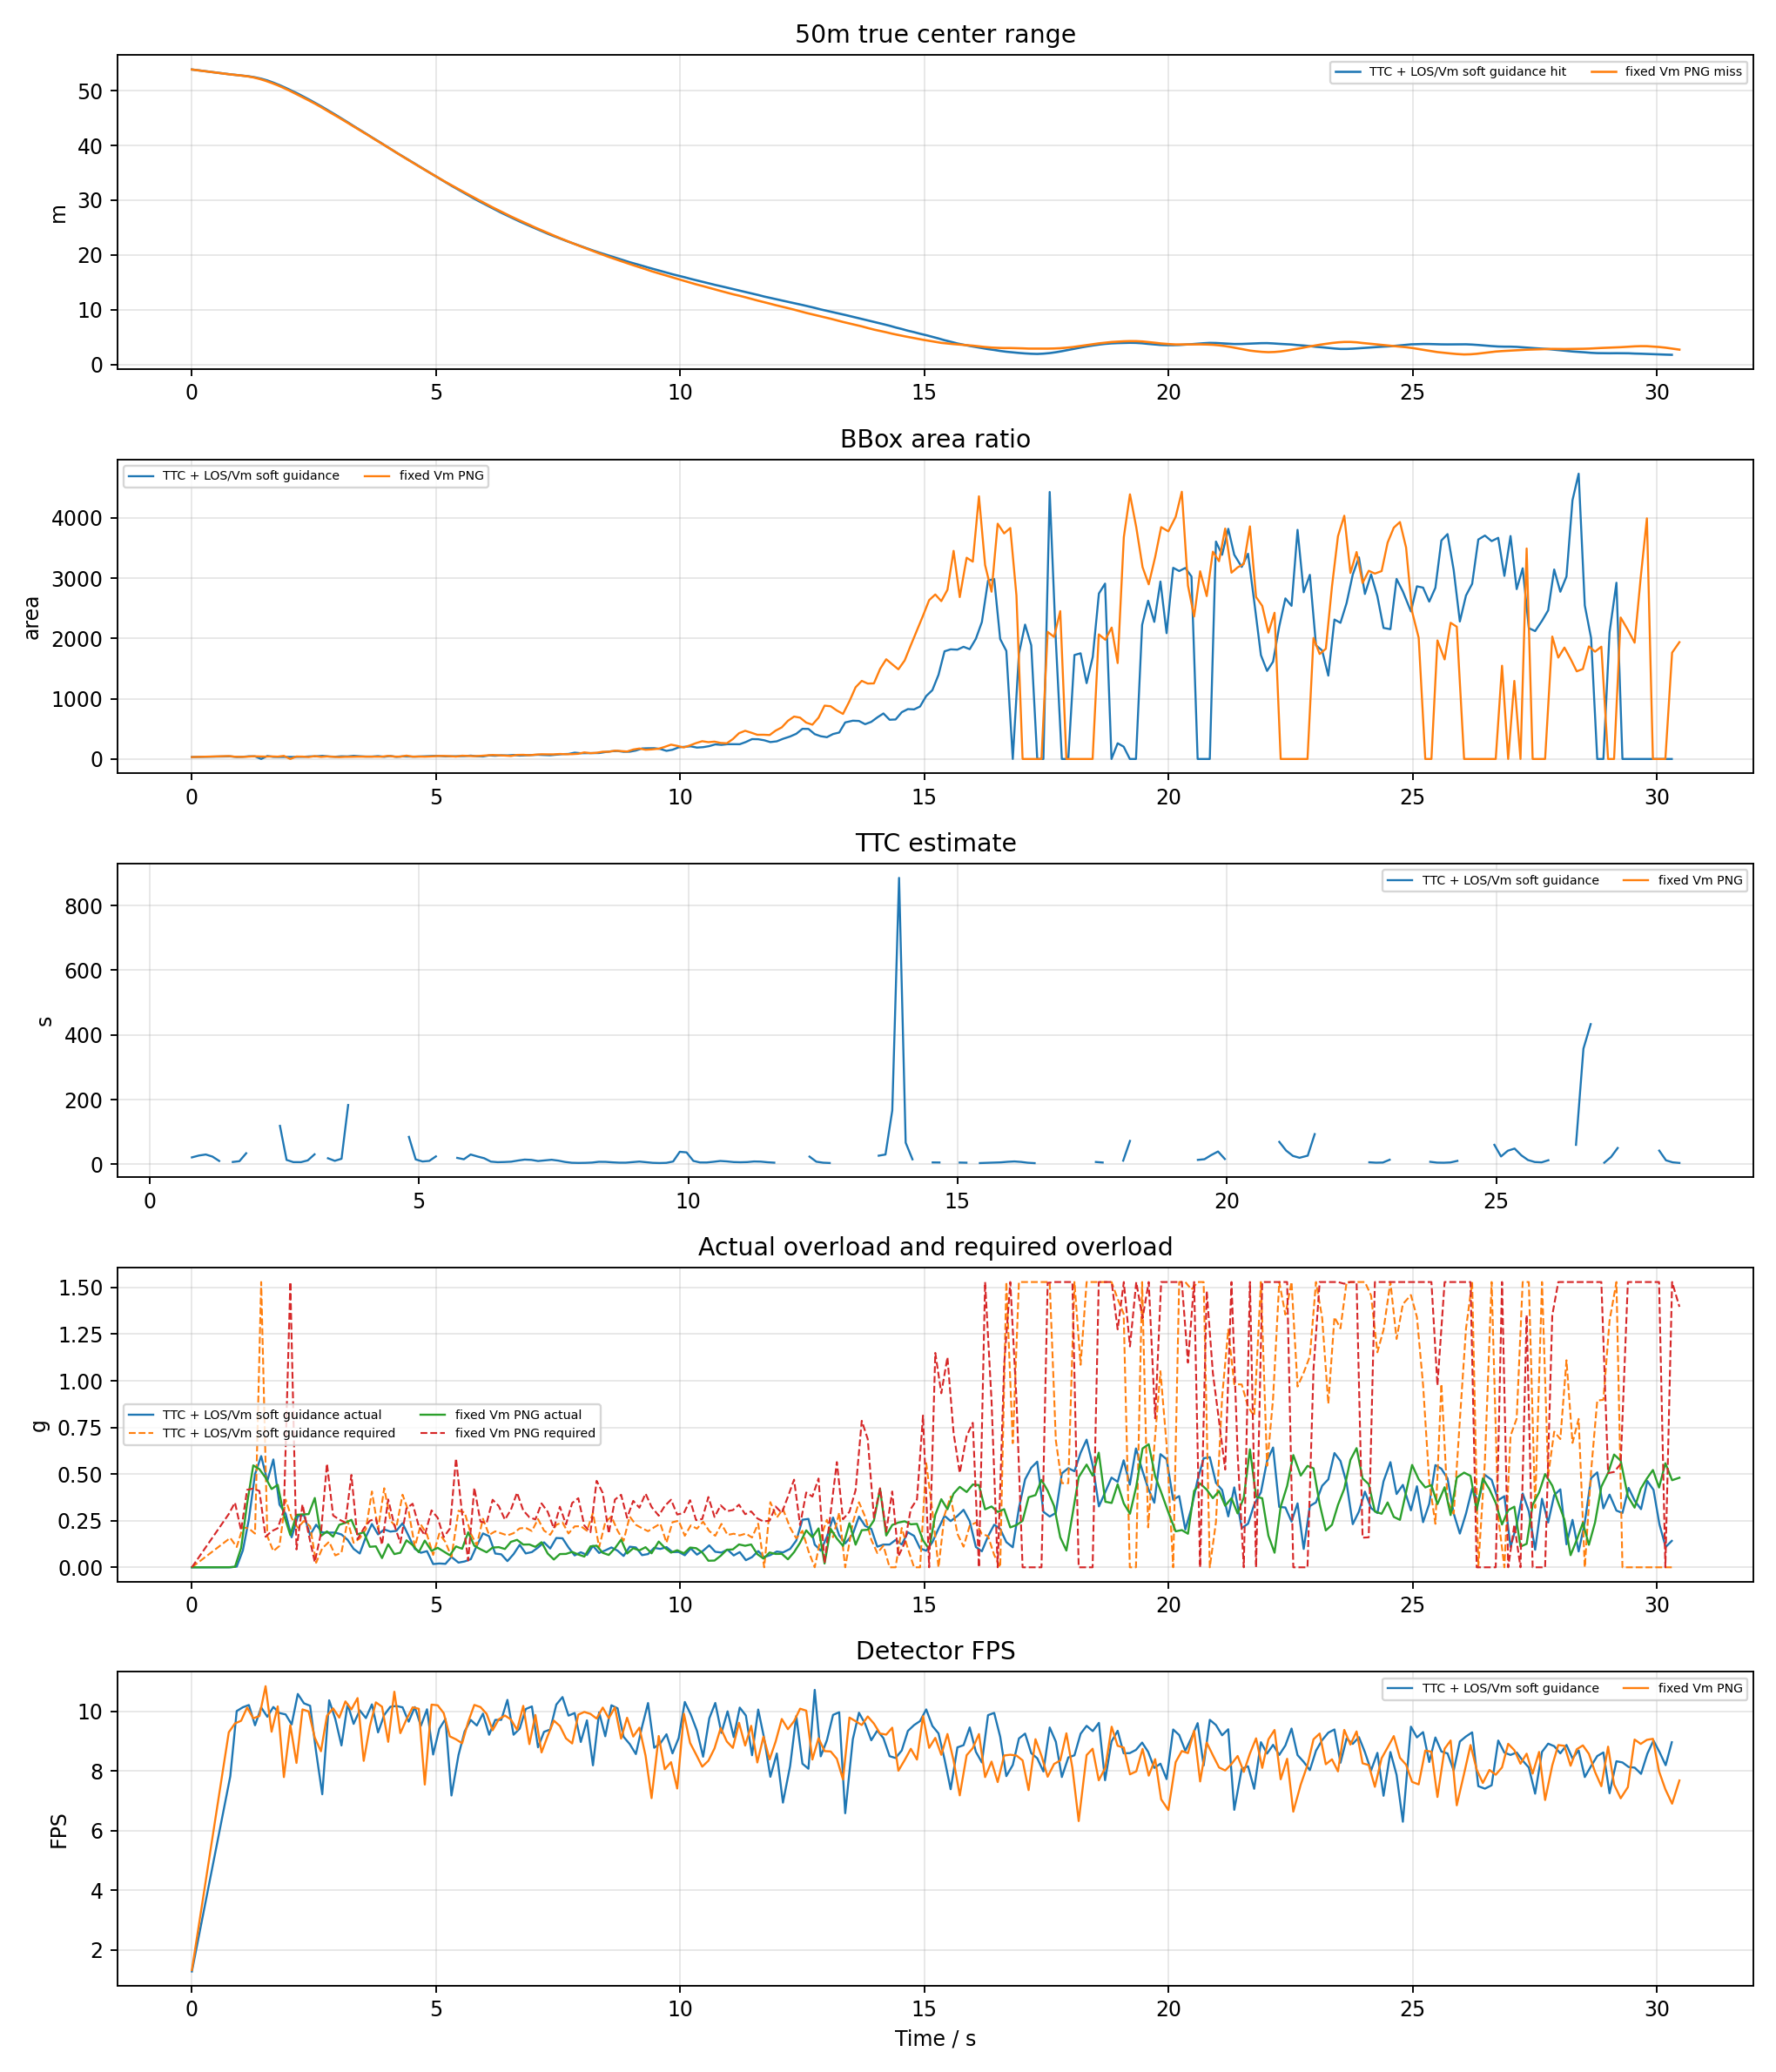
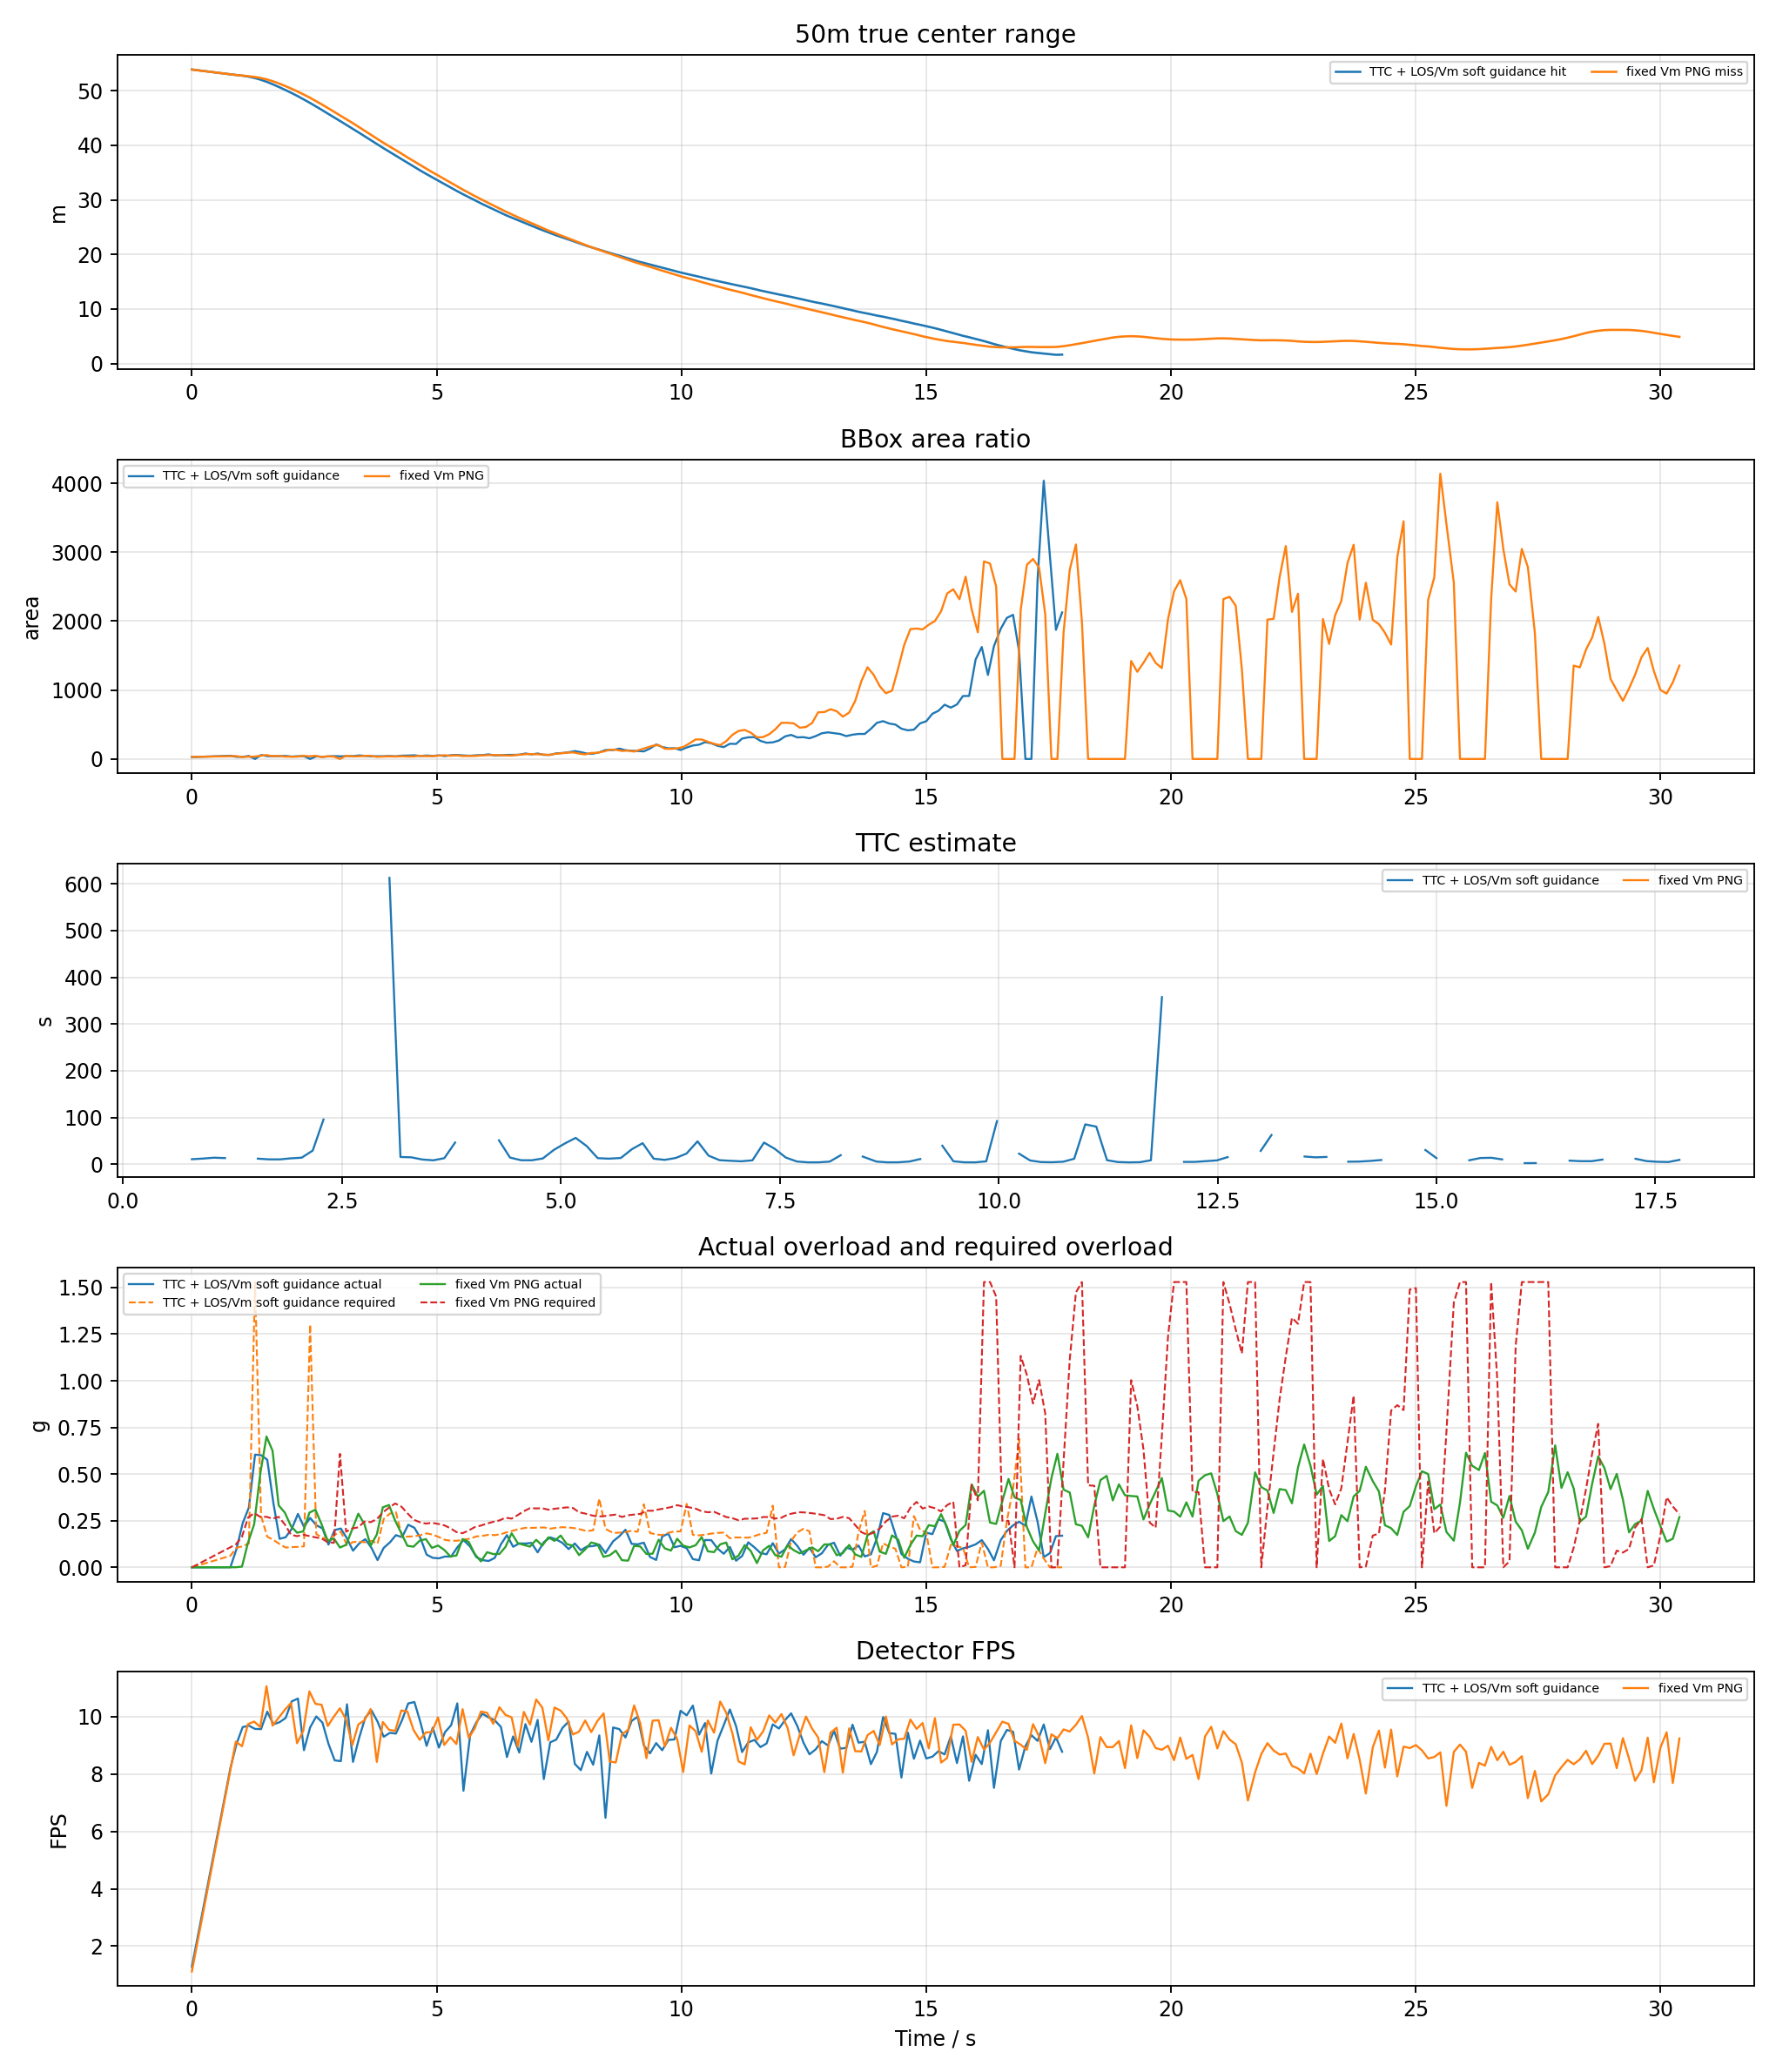
Relax LOS KF for body-rate SITL tests

diff --git a/tests/test_strapdown_vision_png.py b/tests/test_strapdown_vision_png.py
@@ -31,6 +31,25 @@ from vision_guidance.terminal_extrapolation import BLIND_PUSH, TERMINAL_VISUAL
 from vision_guidance.types import CameraIntrinsics, FrameDetection
 
 
+def _runtime_args(**overrides):
+    args = {
+        "rate_hz": 8.0,
+        "speed_ratio": 2.0,
+        "navigation_constant": 3.0,
+        "guidance_output_mode": "accel_body_rate",
+        "px4_interceptor": True,
+        "px4_command_mode": "mavlink_body_rate",
+        "body_rate_min_thrust": 0.25,
+        "body_rate_max_thrust": 0.75,
+        "los_filter_process_lambda": 1e-4,
+        "los_filter_process_lambda_dot": 5e-3,
+        "los_filter_measurement_noise": 5e-3,
+        "los_filter_innovation_reject": 0.25,
+    }
+    args.update(overrides)
+    return SimpleNamespace(**args)
+
+
 class StrapdownVisionPNGTest(unittest.TestCase):
     def test_png_acceleration_command_has_acceleration_units_and_limit(self):
         args = SimpleNamespace(max_guidance_accel_mps2=2.0)
@@ -180,15 +199,10 @@ class StrapdownVisionPNGTest(unittest.TestCase):
         self.assertAlmostEqual(total[1], 1.0)
 
     def test_accel_body_rate_runtime_validation_requires_px4_body_rate_mode(self):
-        args = SimpleNamespace(
-            rate_hz=8.0,
-            speed_ratio=2.0,
-            navigation_constant=3.0,
+        args = _runtime_args(
             guidance_output_mode="accel_body_rate",
             px4_interceptor=False,
             px4_command_mode="velocity_yaw_rate",
-            body_rate_min_thrust=0.25,
-            body_rate_max_thrust=0.75,
         )
 
         with self.assertRaisesRegex(SystemExit, "requires --px4-interceptor"):
@@ -202,34 +216,33 @@ class StrapdownVisionPNGTest(unittest.TestCase):
         _validate_runtime_args(args)
 
     def test_mavlink_body_rate_runtime_validation_rejects_other_output_modes(self):
-        args = SimpleNamespace(
-            rate_hz=8.0,
-            speed_ratio=2.0,
-            navigation_constant=3.0,
+        args = _runtime_args(
             guidance_output_mode="accel_integral",
-            px4_interceptor=True,
             px4_command_mode="mavlink_body_rate",
-            body_rate_min_thrust=0.25,
-            body_rate_max_thrust=0.75,
         )
 
         with self.assertRaisesRegex(SystemExit, "requires --guidance-output-mode accel_body_rate"):
             _validate_runtime_args(args)
 
     def test_body_rate_runtime_validation_rejects_invalid_thrust_range(self):
-        args = SimpleNamespace(
-            rate_hz=8.0,
-            speed_ratio=2.0,
-            navigation_constant=3.0,
-            guidance_output_mode="accel_body_rate",
-            px4_interceptor=True,
-            px4_command_mode="mavlink_body_rate",
+        args = _runtime_args(
             body_rate_min_thrust=0.8,
             body_rate_max_thrust=0.2,
         )
 
         with self.assertRaisesRegex(SystemExit, "min-thrust cannot exceed"):
             _validate_runtime_args(args)
+
+    def test_runtime_validation_rejects_invalid_los_filter_parameters(self):
+        for key, value, message in (
+            ("los_filter_process_lambda", -1e-4, "process-lambda must be non-negative"),
+            ("los_filter_process_lambda_dot", -1e-3, "process-lambda-dot must be non-negative"),
+            ("los_filter_measurement_noise", 0.0, "measurement-noise must be positive"),
+            ("los_filter_innovation_reject", 0.0, "innovation-reject must be positive"),
+        ):
+            args = _runtime_args(**{key: value})
+            with self.subTest(key=key), self.assertRaisesRegex(SystemExit, message):
+                _validate_runtime_args(args)
 
     def test_yaw_rate_from_pixel_error_turns_toward_right_side_target(self):
         intrinsics = CameraIntrinsics(320.0, 320.0, 320.0, 240.0, 640, 480)

diff --git a/examples/generate_yolo_sitl_ttc_vm_report.py b/examples/generate_yolo_sitl_ttc_vm_report.py
@@ -296,6 +296,8 @@ def _settings_markdown(rows: list[CaseRow], stamp: str) -> str:
             f"|body-rate thrust|min/hover/max `{sample.get('body_rate_min_thrust', '')}` / `{sample.get('body_rate_hover_thrust', '')}` / `{sample.get('body_rate_max_thrust', '')}`|",
             f"|body-rate speed hold|gain `{sample.get('body_rate_speed_hold_gain', '')}`, max accel `{sample.get('body_rate_speed_hold_max_accel_mps2', '')} m/s^2`, total limit `{sample.get('body_rate_total_accel_limit_mps2', '')} m/s^2`|",
             f"|LOS filter|`{sample.get('los_filter_enabled', '')}`|",
+            f"|LOS KF q lambda / lambda_dot|`{sample.get('los_filter_process_lambda', '')}` / `{sample.get('los_filter_process_lambda_dot', '')}`|",
+            f"|LOS KF r / innovation gate|`{sample.get('los_filter_measurement_noise', '')}` / `{sample.get('los_filter_innovation_reject', '')}`|",
             f"|frame_guard|`{meta.get('frame_guard', '')}`|",
             f"|bbox noise|`{sample.get('bbox_noise_enabled', '')}`|",
         ]
@@ -397,6 +399,45 @@ def _case_notes(rows: list[CaseRow]) -> str:
     return "\n".join(lines)
 
 
+def _reason(row: dict[str, str]) -> str:
+    return row.get("reject_reason") or row.get("reason") or "valid"
+
+
+def _diagnostics_markdown(rows: list[CaseRow]) -> str:
+    lines = [
+        "|组别|距离m|最近距离m|最近点状态|主要失败/降级原因|检测率|有效率|",
+        "|---|---:|---:|---|---|---:|---:|",
+    ]
+    for row in sorted(rows, key=lambda item: (item.start_range_m, item.label)):
+        samples = _read_csv(row.csv_path) if row.csv_path.exists() else []
+        if not samples:
+            lines.append(f"|{row.label}|{row.start_range_m:.0f}|-|-|无 CSV|-|-|")
+            continue
+        nearest = min(samples, key=lambda sample: _float(sample.get("range"), 1.0e9))
+        counts: dict[str, int] = {}
+        for sample in samples:
+            reason = _reason(sample)
+            counts[reason] = counts.get(reason, 0) + 1
+        common = ", ".join(f"{reason}:{count}" for reason, count in sorted(counts.items(), key=lambda item: item[1], reverse=True)[:4])
+        det_ratio = 100.0 * row.detected_frames / max(1, row.frames)
+        valid_ratio = 100.0 * row.valid_frames / max(1, row.frames)
+        lines.append(
+            f"|{row.label}|{row.start_range_m:.0f}|{_float(nearest.get('range')):.3f}|"
+            f"`{_reason(nearest)}`|{common}|{det_ratio:.1f}%|{valid_ratio:.1f}%|"
+        )
+    lines.extend(
+        [
+            "",
+            "- 放宽后的 LOS KF 参数为 `q_lambda=5e-4`、`q_lambda_dot=2e-2`、`r=8e-3`、`innovation_reject=0.75`。相较原始门限，它减少了末端 LOS 被直接判 invalid 的概率，但没有完全消除该问题。",
+            "- `TTC 70m` 最近点仍是 `los_innovation_reject`，说明末端 LOS 变化速度和 bbox 中心跳变仍可能超过当前 6D LOS KF 的一致性门限；这类失败不是加速度输出通道失效，而是导引量被质量门断开。",
+            "- `TTC 60m` 的检测率只有约一半，最近点虽然仍有效，但之后长时间 `no_detection`，拦截机错过后继续飞离；这更像视场/检测连续性问题。",
+            "- `VM` 组只有 `80m` 命中。固定 `N * V_m` 的需用过载基本保持在上限附近，缺少 TTC 对末端速度和增益的调度，近距丢检或外推时更容易错过碰撞判定窗口。",
+            "- 当前实际过载峰值低于导引需用过载，主要受 PX4 姿态角/角速度/推力限制、YOLO 约 9 FPS 采样、以及 frame centering 限制横向速度共同影响；因此日志中的 `n_cmd_g` 是导引层需求，不等于机体真实已经实现的过载。",
+        ]
+    )
+    return "\n".join(lines)
+
+
 def write_report(
     rows: list[CaseRow],
     stamp: str,
@@ -443,7 +484,11 @@ def write_report(
 
 {image_lines}
 
-## 7. 结论
+## 7. LOS KF 与失败原因诊断
+
+{_diagnostics_markdown(rows)}
+
+## 8. 结论
 
 {_case_notes(rows)}
 """

diff --git a/examples/run_airsim_strapdown_vision_png.py b/examples/run_airsim_strapdown_vision_png.py
@@ -66,7 +66,7 @@ from vision_guidance.geometry import (
     normalize,
     project_perpendicular,
 )
-from vision_guidance.los_filter import LOSKalmanFilter6D
+from vision_guidance.los_filter import LOSFilterConfig, LOSKalmanFilter6D
 from vision_guidance.png_eval import TTCGainSchedule
 from vision_guidance.terminal_image_kf import IMAGE_KF_PREDICT, TerminalImageKF
 from vision_guidance.terminal_image_kf import center_from_angle_error
@@ -416,6 +416,15 @@ def parse_args() -> argparse.Namespace:
         default=True,
         help="Use the 6D LOS Kalman filter. Disable it for noiseless AirSim detection/pose analysis.",
     )
+    parser.add_argument("--los-filter-process-lambda", type=float, default=1e-4)
+    parser.add_argument("--los-filter-process-lambda-dot", type=float, default=5e-3)
+    parser.add_argument("--los-filter-measurement-noise", type=float, default=5e-3)
+    parser.add_argument(
+        "--los-filter-innovation-reject",
+        type=float,
+        default=0.25,
+        help="6D LOS Kalman innovation norm gate. Increase for high terminal LOS-rate or noisy YOLO boxes.",
+    )
     parser.add_argument("--allow-los-fallback", action=argparse.BooleanOptionalAction, default=True)
     parser.add_argument("--los-fallback-gain", type=float, default=0.5)
     parser.add_argument(
@@ -519,6 +528,14 @@ def _validate_runtime_args(args) -> None:
         raise SystemExit("--px4-command-mode mavlink_body_rate requires --guidance-output-mode accel_body_rate")
     if args.body_rate_min_thrust > args.body_rate_max_thrust:
         raise SystemExit("--body-rate-min-thrust cannot exceed --body-rate-max-thrust")
+    if args.los_filter_process_lambda < 0.0:
+        raise SystemExit("--los-filter-process-lambda must be non-negative")
+    if args.los_filter_process_lambda_dot < 0.0:
+        raise SystemExit("--los-filter-process-lambda-dot must be non-negative")
+    if args.los_filter_measurement_noise <= 0.0:
+        raise SystemExit("--los-filter-measurement-noise must be positive")
+    if args.los_filter_innovation_reject <= 0.0:
+        raise SystemExit("--los-filter-innovation-reject must be positive")
 
 
 def _output_paths_strapdown(args) -> tuple[Path, Path]:
@@ -2428,7 +2445,13 @@ def main() -> None:
         _configure_actor_detection_aliases(client, airsim, config, args)
 
     attitude_buffer = AttitudeHistoryBuffer(duration_s=2.0)
-    los_filter = LOSKalmanFilter6D()
+    los_filter_config = LOSFilterConfig(
+        process_lambda=float(args.los_filter_process_lambda),
+        process_lambda_dot=float(args.los_filter_process_lambda_dot),
+        measurement_noise=float(args.los_filter_measurement_noise),
+        innovation_reject=float(args.los_filter_innovation_reject),
+    )
+    los_filter = LOSKalmanFilter6D(los_filter_config)
     ttc_filter = ScaleExpansionTTC(
         TTCConfig(min_area=max(0.0, args.ttc_min_area), max_ttc_s=max(0.1, args.ttc_max_s))
     )
@@ -3394,6 +3417,10 @@ def main() -> None:
                 "blind_decay": terminal_result.blind_decay,
                 "blind_sample_count": terminal_result.blind_sample_count,
                 "los_filter_enabled": int(args.los_filter),
+                "los_filter_process_lambda": float(args.los_filter_process_lambda),
+                "los_filter_process_lambda_dot": float(args.los_filter_process_lambda_dot),
+                "los_filter_measurement_noise": float(args.los_filter_measurement_noise),
+                "los_filter_innovation_reject": float(args.los_filter_innovation_reject),
                 "los_source": los_source,
                 "lambda_measured_x": 0.0 if lambda_I_measured is None else float(lambda_I_measured[0]),
                 "lambda_measured_y": 0.0 if lambda_I_measured is None else float(lambda_I_measured[1]),

diff --git a/examples/run_airsim_gimbal_vision_png.py b/examples/run_airsim_gimbal_vision_png.py
@@ -1253,6 +1253,10 @@ def _experiment_fields(
         "bbox_noise_area_sigma_ratio": float(getattr(args, "bbox_area_noise_ratio", 0.0)),
         "bbox_noise_seed": int(getattr(args, "bbox_noise_seed", 0)),
         "los_filter_enabled": int(bool(getattr(args, "los_filter", True))),
+        "los_filter_process_lambda": float(getattr(args, "los_filter_process_lambda", 0.0)),
+        "los_filter_process_lambda_dot": float(getattr(args, "los_filter_process_lambda_dot", 0.0)),
+        "los_filter_measurement_noise": float(getattr(args, "los_filter_measurement_noise", 0.0)),
+        "los_filter_innovation_reject": float(getattr(args, "los_filter_innovation_reject", 0.0)),
         "guidance_law": str(getattr(args, "guidance_law", "ttc_png")),
         "guidance_output_mode": str(getattr(args, "guidance_output_mode", "velocity_bias")),
         "navigation_constant": float(getattr(args, "navigation_constant", 0.0)),

diff --git a/完整方案/YOLO_SITL_AccelPNG_TTC_VM拦截对比报告.md b/完整方案/YOLO_SITL_AccelPNG_TTC_VM拦截对比报告.md
@@ -15,7 +15,7 @@
 
 |参数|值|
 |---|---|
-|stamp|`accel_body_rate_nolos_20260623_041525`|
+|stamp|`accel_body_rate_loskf_relaxed_20260623_073738`|
 |settings|`/home/linux/Documents/PNG/config/airsim_blocks_px4_actor_settings.json`|
 |拦截机|`PX4 SITL / mavlink_body_rate`|
 |目标 actor|`IntruderActor`|
@@ -38,40 +38,78 @@
 |body-rate roll/pitch max rate|`60.0` / `60.0 deg/s`|
 |body-rate thrust|min/hover/max `0.25` / `0.5` / `0.75`|
 |body-rate speed hold|gain `1.2`, max accel `6.0 m/s^2`, total limit `18.0 m/s^2`|
-|LOS filter|`0`|
+|LOS filter|`1`|
+|LOS KF q lambda / lambda_dot|`0.0005` / `0.02`|
+|LOS KF r / innovation gate|`0.008` / `0.75`|
 |frame_guard|`True`|
 |bbox noise|`0`|
 
 ## 3. 总览图
 
-![summary](assets/YOLO_SITL_AccelPNG_TTC_VM拦截对比报告/summary_accel_body_rate_nolos_20260623_041525.png)
+![summary](assets/YOLO_SITL_AccelPNG_TTC_VM拦截对比报告/summary_accel_body_rate_loskf_relaxed_20260623_073738.png)
 
 ## 4. 汇总表
 
 |组别|命中数|命中距离m|未命中距离m|最小中心距离m|检测帧/总帧|有效帧/总帧|平均检测FPS|
 |---|---:|---|---|---:|---:|---:|---:|
-|TTC|1/1|50|-|1.755|212/235|225/235|8.97|
-|VM|0/1|-|50|1.822|202/235|219/235|8.77|
+|TTC|4/6|50, 80, 90, 100|60, 70|0.836|1023/1350|1052/1350|9.12|
+|VM|1/6|80|50, 60, 70, 90, 100|1.145|1325/1753|1450/1753|9.15|
 
 ## 5. 明细表
 
 |组别|距离m|碰撞|碰撞时间s|最小距离m|终点距离m|检测帧率|有效帧率|YOLO FPS|sim FPS|实际过载max g|速度指令差分P95 g|需用过载P95 g|
 |---|---:|---:|---:|---:|---:|---:|---:|---:|---:|---:|---:|---:|
-|TTC|50|1|30.31|1.755|1.755|90.2%|95.7%|8.97|7.87|0.68|0.86|1.53|
-|VM|50|0|-|1.822|2.698|86.0%|93.2%|8.77|7.83|0.66|1.02|1.53|
+|TTC|50|1|17.78|1.600|1.630|97.1%|97.8%|9.20|7.90|0.60|0.68|0.33|
+|VM|50|0|-|2.597|4.890|84.3%|92.4%|9.12|7.91|0.70|0.89|1.53|
+|TTC|60|0|-|2.317|115.431|50.7%|51.8%|9.07|7.90|0.70|0.68|0.30|
+|VM|60|0|-|1.145|58.246|61.0%|66.5%|9.05|7.91|0.60|0.87|1.48|
+|TTC|70|0|-|2.132|13.641|86.3%|69.7%|8.96|7.89|0.71|2.18|1.53|
+|VM|70|0|-|3.159|7.767|78.9%|85.1%|8.97|7.91|0.87|2.18|1.53|
+|TTC|80|1|21.14|1.610|1.610|88.3%|97.5%|9.31|7.92|0.60|2.21|0.71|
+|VM|80|1|29.88|1.589|1.662|76.1%|91.9%|9.43|7.94|0.72|2.21|1.53|
+|TTC|90|1|32.20|0.836|0.985|71.6%|82.8%|8.98|7.89|0.70|2.22|1.52|
+|VM|90|0|-|2.108|9.087|76.7%|74.7%|9.19|7.92|0.69|2.21|1.53|
+|TTC|100|1|28.34|1.545|1.545|74.2%|89.1%|9.23|7.92|0.54|2.25|1.53|
+|VM|100|0|-|1.935|4.626|76.6%|88.6%|9.14|7.91|0.89|2.25|1.53|
 
 ## 6. 分距离曲线
 
 每个距离一张图，包含真实中心距离、bbox 面积、TTC 估计、实际过载/需用过载和 YOLO 检测 FPS。
 
 ![50m](assets/YOLO_SITL_AccelPNG_TTC_VM拦截对比报告/yolo_sitl_ttc_vm_050m.png)
+![60m](assets/YOLO_SITL_AccelPNG_TTC_VM拦截对比报告/yolo_sitl_ttc_vm_060m.png)
+![70m](assets/YOLO_SITL_AccelPNG_TTC_VM拦截对比报告/yolo_sitl_ttc_vm_070m.png)
+![80m](assets/YOLO_SITL_AccelPNG_TTC_VM拦截对比报告/yolo_sitl_ttc_vm_080m.png)
+![90m](assets/YOLO_SITL_AccelPNG_TTC_VM拦截对比报告/yolo_sitl_ttc_vm_090m.png)
+![100m](assets/YOLO_SITL_AccelPNG_TTC_VM拦截对比报告/yolo_sitl_ttc_vm_100m.png)
 
-## 7. 结论
+## 7. LOS KF 与失败原因诊断
 
-- TTC: 命中 `1/1`，命中距离 `50m`，未命中 `-`，检测帧比例 `90.2%`，有效导引帧比例 `95.7%`，平均检测 FPS `8.97`。
-- VM: 命中 `0/1`，命中距离 `-`，未命中 `50m`，检测帧比例 `86.0%`，有效导引帧比例 `93.2%`，平均检测 FPS `8.77`。
-- 对照测试中，`LOS filter=1` 的 TTC 50m 工况未命中，最小中心距 `1.603m`，最近点仍检测到目标但 `reject_reason=los_innovation_reject`，`a_cmd_norm_mps2=0`。关闭 LOS 滤波后同一工况命中，说明本次加速度 body-rate 控制链路可用，当前主要限制来自末端 LOS KF innovation gate 过严。
-- VM 关闭 LOS 滤波后仍未碰撞，最小中心距 `1.822m`。最近点附近 `a_cmd` 和 `body_rate_control_accel` 经常触顶，`p/q/r` 也接近限幅，说明固定 `V_m` 在当前 YOLO 帧率和 PX4 响应下更容易擦过目标。
+|组别|距离m|最近距离m|最近点状态|主要失败/降级原因|检测率|有效率|
+|---|---:|---:|---|---|---:|---:|
+|TTC|50|1.600|`los_innovation_reject`|valid:100, area_not_expanding:25, image_kf_predict:4, bbox_top_clipped:3|97.1%|97.8%|
+|VM|50|2.597|`image_kf_predict`|valid:199, image_kf_predict:19, no_detection:18|84.3%|92.4%|
+|TTC|60|2.317|`valid`|no_detection:130, valid:90, area_not_expanding:43, ttc_out_of_range:4|50.7%|51.8%|
+|VM|60|1.145|`no_detection`|valid:166, no_detection:91, image_kf_predict:15|61.0%|66.5%|
+|TTC|70|2.132|`los_innovation_reject`|valid:113, los_innovation_reject:80, area_not_expanding:66, image_kf_predict:30|86.3%|69.7%|
+|VM|70|3.159|`valid`|valid:234, no_detection:37, image_kf_predict:28, los_innovation_reject:9|78.9%|85.1%|
+|TTC|80|1.610|`area_not_expanding`|valid:86, area_not_expanding:55, image_kf_predict:15, no_detection:4|88.3%|97.5%|
+|VM|80|1.589|`valid`|valid:178, image_kf_predict:37, no_detection:19|76.1%|91.9%|
+|TTC|90|0.836|`no_detection`|valid:116, area_not_expanding:50, no_detection:36, image_kf_predict:35|71.6%|82.8%|
+|VM|90|2.108|`image_kf_predict`|valid:223, los_innovation_reject:45, no_detection:44, image_kf_predict:40|76.7%|74.7%|
+|TTC|100|1.545|`valid`|valid:93, area_not_expanding:66, image_kf_predict:33, no_detection:24|74.2%|89.1%|
+|VM|100|1.935|`valid`|valid:269, image_kf_predict:42, no_detection:40|76.6%|88.6%|
+
+- 放宽后的 LOS KF 参数为 `q_lambda=5e-4`、`q_lambda_dot=2e-2`、`r=8e-3`、`innovation_reject=0.75`。相较原始门限，它减少了末端 LOS 被直接判 invalid 的概率，但没有完全消除该问题。
+- `TTC 70m` 最近点仍是 `los_innovation_reject`，说明末端 LOS 变化速度和 bbox 中心跳变仍可能超过当前 6D LOS KF 的一致性门限；这类失败不是加速度输出通道失效，而是导引量被质量门断开。
+- `TTC 60m` 的检测率只有约一半，最近点虽然仍有效，但之后长时间 `no_detection`，拦截机错过后继续飞离；这更像视场/检测连续性问题。
+- `VM` 组只有 `80m` 命中。固定 `N * V_m` 的需用过载基本保持在上限附近，缺少 TTC 对末端速度和增益的调度，近距丢检或外推时更容易错过碰撞判定窗口。
+- 当前实际过载峰值低于导引需用过载，主要受 PX4 姿态角/角速度/推力限制、YOLO 约 9 FPS 采样、以及 frame centering 限制横向速度共同影响；因此日志中的 `n_cmd_g` 是导引层需求，不等于机体真实已经实现的过载。
+
+## 8. 结论
+
+- TTC: 命中 `4/6`，命中距离 `50m, 80m, 90m, 100m`，未命中 `60m, 70m`，检测帧比例 `75.8%`，有效导引帧比例 `77.9%`，平均检测 FPS `9.12`。
+- VM: 命中 `1/6`，命中距离 `80m`，未命中 `50m, 60m, 70m, 90m, 100m`，检测帧比例 `75.6%`，有效导引帧比例 `82.7%`，平均检测 FPS `9.15`。
 - 本轮使用真实 YOLOv8 + ByteTrack，因此检测连续性和 GPU 推理速度会直接进入闭环；结果不能和 AirSim detect 函数的理想 bbox 直接等价比较。
 - `accel_integral` 模式的 `n_cmd_g` 来自导引层 `a_cmd`，底层仍通过 PX4/AirSim 速度 setpoint 闭环；实际过载由真实速度差分估计，因此会同时受 PX4 响应、速度限幅和视觉帧率影响。
 - `accel_body_rate` 模式下 `n_cmd_g` 仍表示纯 PNG 需用过载；实际发送给 PX4 的是 `SET_ATTITUDE_TARGET` 机体系 `p/q/r` 角速度和归一化 thrust，日志中的 `body_rate_control_accel_*` 额外包含沿 LOS 的速度保持加速度。